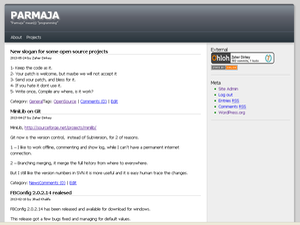
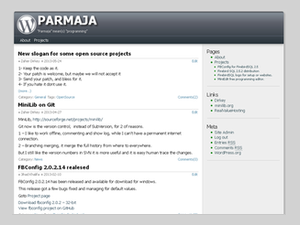
Change: pagination footer colors

diff --git a/style.css b/style.css
@@ -236,16 +236,16 @@ div.post {
 
 #pagination {
   list-style: none;
-  margin: 0.1em 0.1em;
+  margin: 0.5em 0.1em 0;
   padding: 0.1em 0.5em;
-  background: #000;
   min-height: 1em;
   overflow: auto;
-  background: #111;
+	border-top: 1px solid #ccc;
+	color: #000;
+  background: #eee;
 }
 
 #pagination a{
-	color: #fff;
   text-decoration: none;
 }
 
